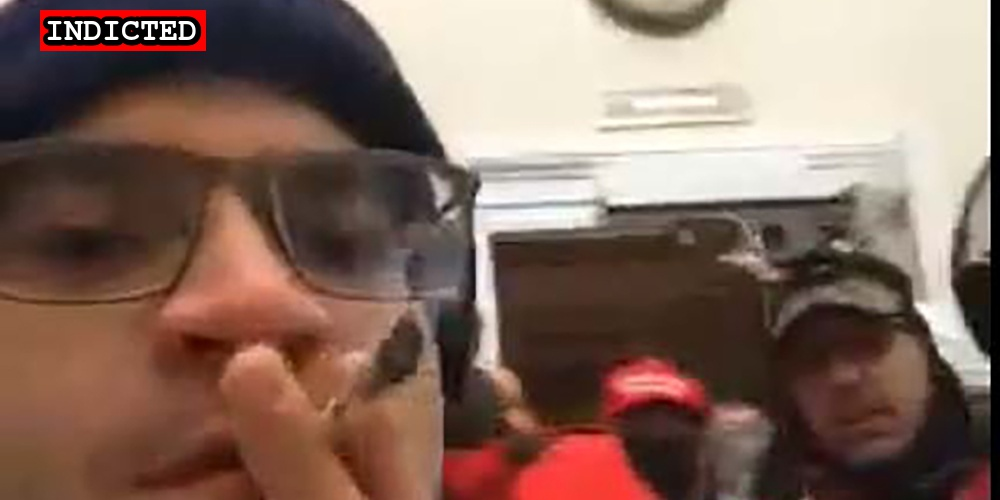
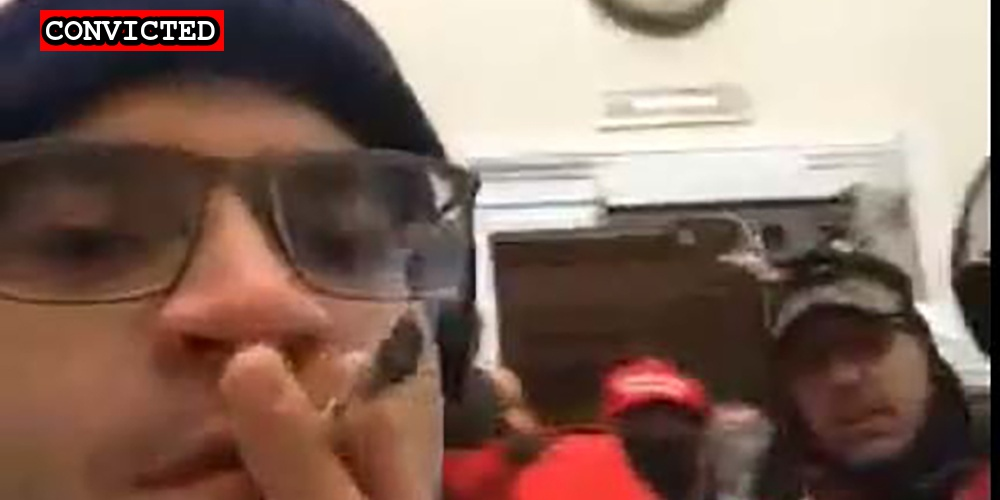
Bonet plea

Changed region(s): [[0.031, 0.0, 0.248, 0.12]]

diff --git a/docs/_suspects/james-bonet.md b/docs/_suspects/james-bonet.md
@@ -4,15 +4,15 @@ lastName: Bonet
 hashtag: JamesBonet
 aka:
 residence: New&nbsp;York
-status: Indicted
+status: Convicted
 date: 2021-01-27
 charged: 2021-01-27
 indicted: 2021-06-02
-convicted:
+convicted: 2021-10-07
 sentenced:
 dismissed:
 deceased:
-plea_hearing: 2021-09-14
+plea_hearing: 2021-10-07
 sentencing:
 age: 29
 occupation:
@@ -34,8 +34,13 @@ published: true
 caseNumber: 1:21-cr-121
 videos:
 charges:
+  - code: 18 USC § 5104(e)(2)(D)
+    title: Disorderly Conduct in a Capitol Building
+    url: https://www.law.cornell.edu/uscode/text/40/5104
+    felony: false
 sentence:
 ---
+
 - [News Report](https://www.timesunion.com/news/article/No-weed-for-Glens-Falls-man-charged-in-attack-on-15903349.php)
 - [Complaint](https://www.justice.gov/opa/page/file/1361446/download)
 - [Statement of Facts](https://www.justice.gov/opa/page/file/1361446/download)
